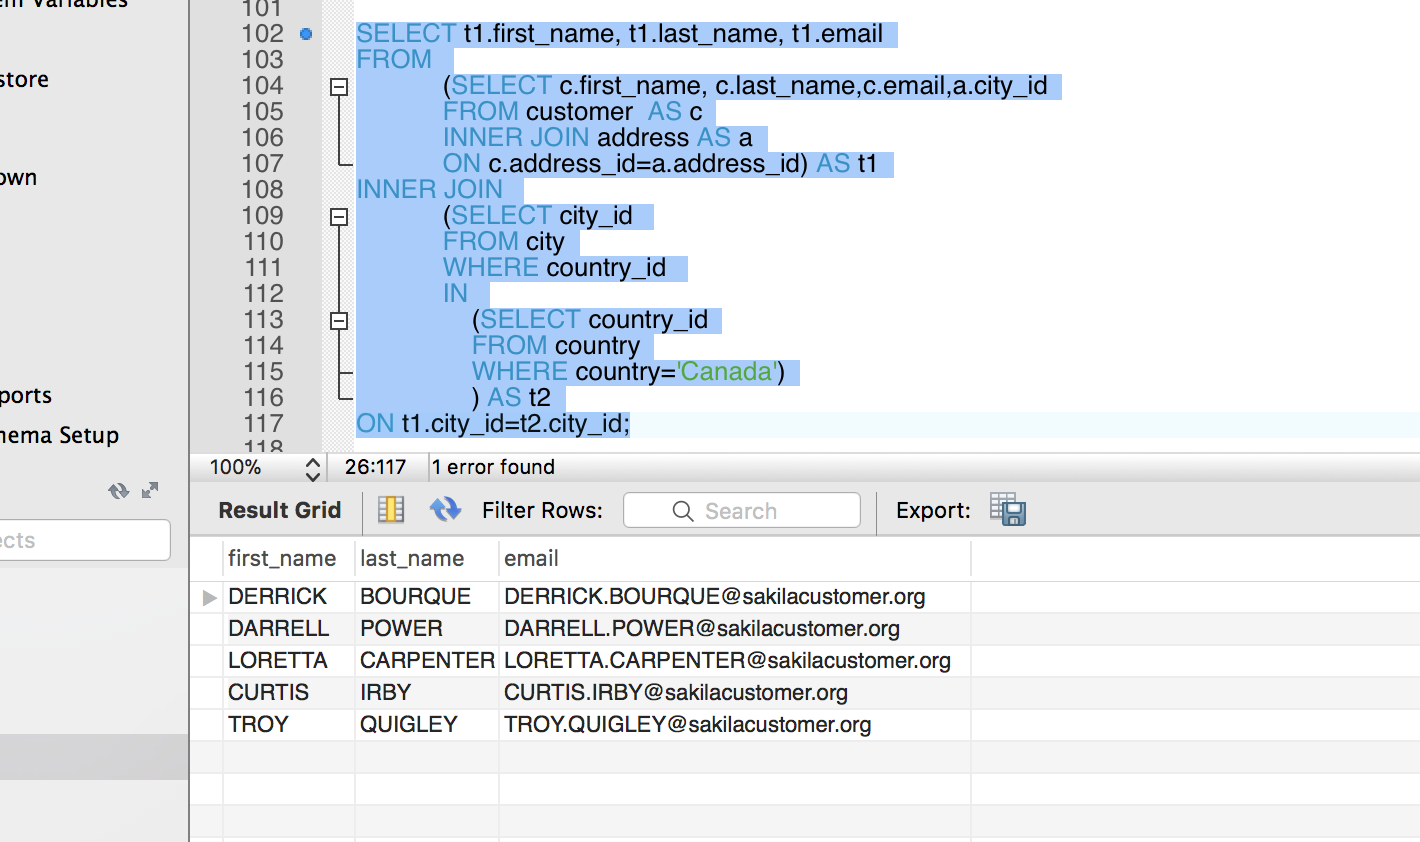
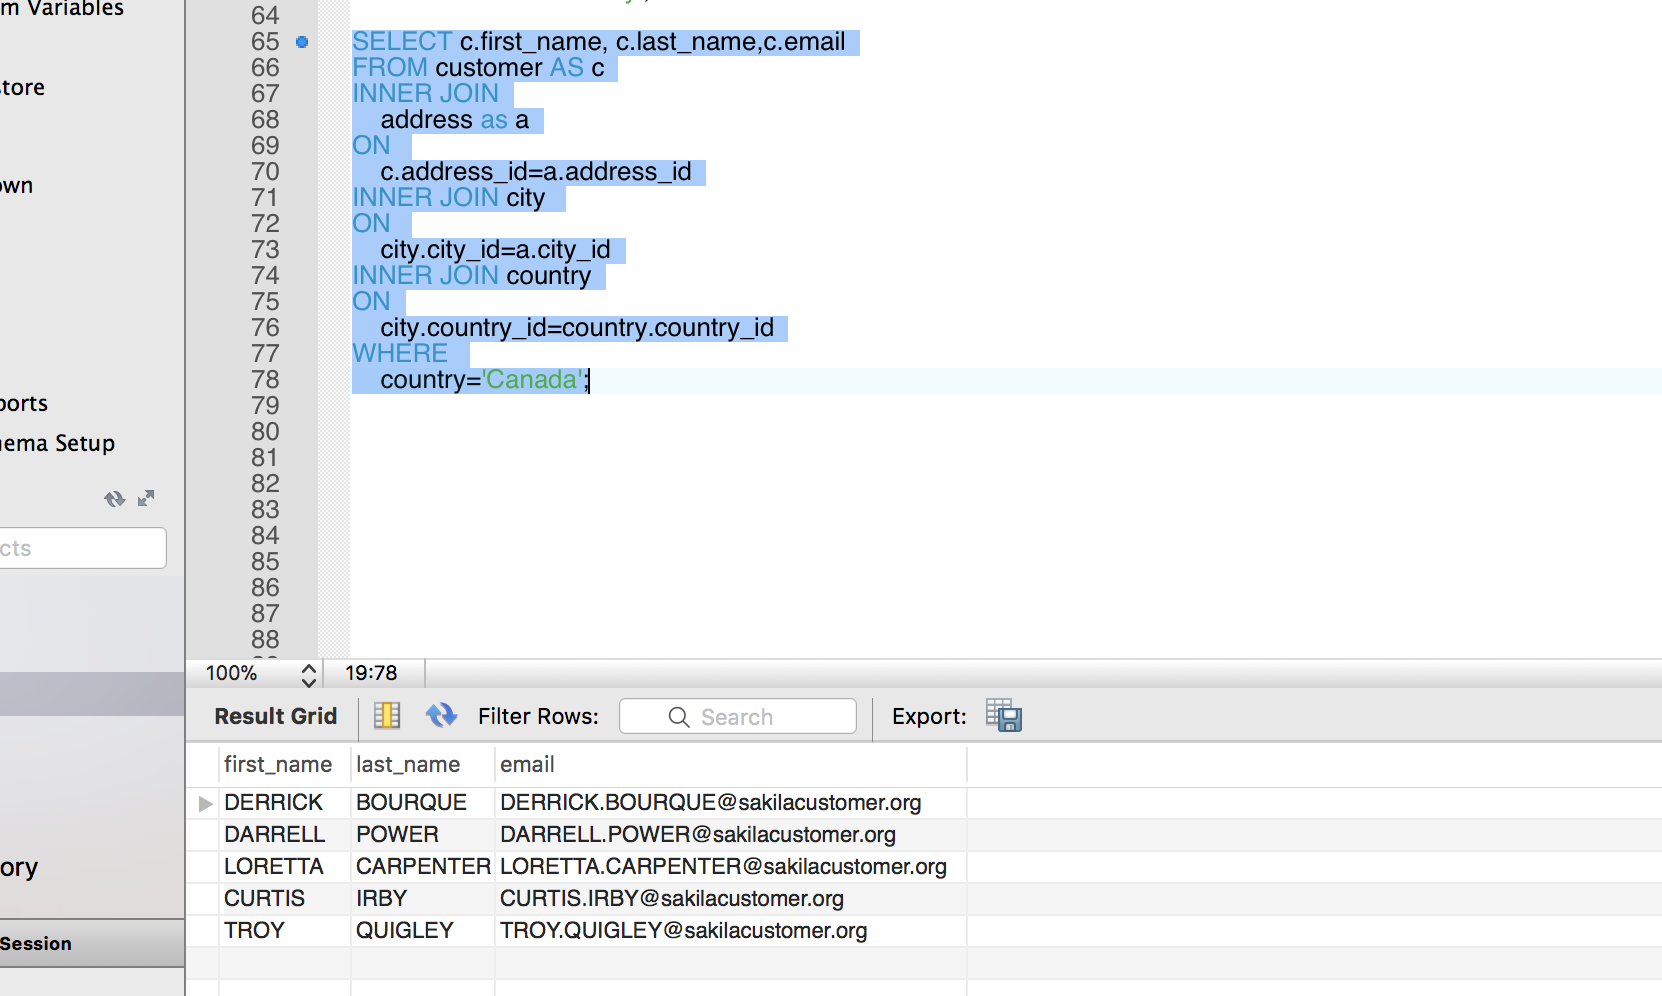
change it a bit

diff --git a/mysql_homework.md b/mysql_homework.md
@@ -4,18 +4,14 @@
 ```sql
 -- switch database to sakila
 USE sakila;
--- actor table is sorted by actor_id so first actor's first_name and last_name 
-SELECT first_name, last_name FROM actor Order BY actor_id ASC LIMIT 1;
--- select the last row 
-SELECT first_name, last_name FROM actor Order BY actor_id DESC LIMIT 1;
+SELECT first_name,last_name FROM actor;
 
-![q1a_first](screenshot/q1a_first.png)
-![q1a_last](screenshot/q1a_last.png)
+![q1a](screenshot/q1a_actor_names.png)
 ```
 
 ## Question 1b. Display the first and last name of each actor in a single column in upper case letters. Name the column `Actor Name`
 ```sql
--- i am goin to concat first_name and last_name with a separator ',' they are already in upper case
+-- i am going to concat first_name and last_name with a separator ',' they are already in upper case
 SELECT CONCAT_WS (',', first_name,last_name) AS Actor_Name
 FROM actor;
 ![q1b](screenshot/q1b_Actor_Name.png)
@@ -147,33 +143,24 @@ ON staff.address_id=address.address_id;
 
 ## Question 6b. Use `JOIN` to display the total amount rung up by each staff member in August of 2005. Use tables `staff` and `payment`.
 ```sql
-SELECT 
-	s.first_name, s.last_name, p.SUM_Aug
-FROM 
-	staff AS s
+SELECT s.first_name,s.last_name,SUM(p.amount) AS Sum_Aug
+FROM staff AS s
 INNER JOIN
-	(SELECT 
-		staff_id, SUM(amount) AS SUM_Aug
-        FROM payment
-        WHERE DATE(payment_date) BETWEEN '2005-08-01' AND '2005-08-31'
-        GROUP BY staff_id) AS p
-ON s.staff_id=p.staff_id;
-![q6b](screenshot/q6b_inner_join_subq.png)
+	payment AS p
+ON s.staff_id=p.staff_id
+WHERE DATE(p.payment_date) BETWEEN '2005-08-01' AND '2005-08-31'
+GROUP BY p.staff_id;
+![q6b](screenshot/q6b_Aug_Payment.png)
 ```
 
 ## Question 6c. List each film and the number of actors who are listed for that film. Use tables `film_actor` and `film`. Use inner join.
 ```sql
-SELECT 
-	f.title, a.actor_counts
-FROM 
-	film AS f
-INNER JOIN 
-	(SELECT 
-		film_id, COUNT(actor_id) AS actor_counts
-		FROM film_actor
-		GROUP BY film_id) AS a
-ON f.film_id=a.film_id;
-![q6c](screenshot/q6c_inner_join_suq_again.png)
+SELECT f.title, COUNT(fa.actor_id) AS Actor_Count
+FROM film AS f
+INNER JOIN film_actor AS fa
+ON f.film_id=fa.film_id
+GROUP BY f.film_id;
+![q6c](screenshot/q6c_actor_counts.png)
 ```
 
 ## Question 6d. How many copies of the film `Hunchback Impossible` exist in the inventory system?
@@ -192,20 +179,17 @@ WHERE
 
 ## Question 6e. Using the tables `payment` and `customer` and the `JOIN` command, list the total paid by each customer. List the customers alphabetically by last name:
 ```sql
-SELECT c.first_name, c.last_name, p.Total_Amount_Paid
+SELECT c.first_name,c.last_name,SUM(p.amount) AS Total_Payment_Customer
 FROM customer AS c
--- USE left join just incase some customer does not pay (unlikely but still better to be safe)
-LEFT JOIN 
-				(SELECT 
-					customer_id, SUM(amount) as Total_Amount_Paid
-					FROM 
-						payment
-					GROUP BY 
-						customer_id) AS p
+INNER JOIN
+	payment AS p
 ON c.customer_id=p.customer_id
-ORDER BY c.last_name ASC;
+GROUP BY 
+	p.customer_id
+ORDER BY 
+	c.last_name ASC;
 
-![q6e](screenshot/q6e_suq_left_join.png)
+![q6e](screenshot/q6e_customer_payment.png)
 ```
 
 ## Question 7a. The music of Queen and Kris Kristofferson have seen an unlikely resurgence. As an unintended consequence, films starting with the letters `K` and `Q` have also soared in popularity. Use subqueries to display the titles of movies starting with the letters `K` and `Q` whose language is English.
@@ -246,22 +230,20 @@ IN
 ```sql
 -- this problem ask to use join but it can also be solved by using where I did both ways
 -- USE join to solve this problem
-SELECT t1.first_name, t1.last_name, t1.email
-FROM 
-			(SELECT c.first_name, c.last_name,c.email,a.city_id
-			FROM customer  AS c
-			INNER JOIN address AS a
-			ON c.address_id=a.address_id) AS t1
-INNER JOIN 
-			(SELECT city_id 
-			FROM city
-			WHERE country_id 
-			IN 
-				(SELECT country_id
-				FROM country
-				WHERE country='Canada')
-				) AS t2
-ON t1.city_id=t2.city_id;
+SELECT c.first_name, c.last_name,c.email
+FROM customer AS c
+INNER JOIN
+	address as a
+ON 
+	c.address_id=a.address_id
+INNER JOIN city 
+ON 
+	city.city_id=a.city_id
+INNER JOIN country
+ON
+	city.country_id=country.country_id
+WHERE 
+	country='Canada';
 
 -- USE SELECT WHERE
 SELECT first_name, last_name,email
@@ -293,14 +275,14 @@ IN
 SELECT f.title
 FROM film AS f
 INNER JOIN
-			(SELECT fc.film_id 
-			 FROM film_category AS fc
-			 INNER JOIN 
-						(SELECT category_id
-						FROM category
-						WHERE name='Family') as c
-			ON fc.category_id=c.category_id) AS t
-ON f.film_id=t.film_id;
+	film_category as fc
+ON 
+	fc.film_id=f.film_id
+INNER JOIN
+	category AS c
+ON
+	fc.category_id=c.category_id
+WHERE c.name='Family';
 
 -- USE SELECT WHERE IN
 SELECT title
@@ -324,115 +306,83 @@ IN
 
 ## Question 7e. Display the most frequently rented movies in descending order..
 ```sql
-SELECT 
-	f.title, SUM(t3.inventory_id_counts) AS times_rented
-FROM 
-	film AS f
-INNER JOIN 
-		(SELECT 
-			t1.film_id,t2.inventory_id_counts,t2.inventory_id
-		FROM 
-			inventory as t1
-		INNER JOIN 
-					(SELECT 
-						inventory_id, COUNT(*) as inventory_id_counts
-					FROM 
-						rental
-					GROUP BY 
-						inventory_id
-                        ) as t2
-		ON t1.inventory_id=t2.inventory_id
-        ) AS t3
-ON 
-	f.film_id=t3.film_id
-GROUP BY 
-	t3.film_id
-ORDER BY 
-	times_rented DESC;
+SELECT f.title, COUNT(r.rental_id) AS Counts
+FROM film AS f
+INNER JOIN inventory AS i
+ON f.film_id=i.film_id
+INNER JOIN rental AS r
+ON r.inventory_id=i.inventory_id
+GROUP BY f.film_id
+ORDER BY Counts DESC;
 ![q7e](screenshot/q7e_most_rented.png)
 ```
 
 ## Question 7f. Write a query to display how much business, in dollars, each store brought in.
 ```sql
 SELECT 
-	a.address, t2.store_id,t2.revenue_store
+	a.address, s.store_id, SUM(p.amount) AS Store_Revenue
 FROM 
-	address AS a
-INNER JOIN
-	(SELECT 
-		s.address_id,s.store_id,SUM(t1.revenue_staff) AS revenue_store
-		FROM store as s
-		INNER JOIN 
-		(SELECT 
-			staff_id,SUM(amount) AS revenue_staff
-		FROM 
-			payment
-		GROUP BY 
-			staff_id
-            ) as t1
-	ON 
-		s.manager_staff_id=t1.staff_id
-	GROUP BY 
-		s.store_id
-        ) as t2
+	address as a
+INNER JOIN 
+	store as s
 ON 
-	a.address_id=t2.address_id;
+	a.address_id=s.address_id
+INNER JOIN
+	payment as p
+ON 
+	s.manager_staff_id=p.staff_id
+GROUP BY
+	s.store_id;
 
 ![q7f](screenshot/q7f_revenue_store.png)
 ```
 
 ## Question 7g. Write a query to display for each store its store ID, city, and country.
 ```sql
-SELECT t2.store_id, t2.city, (SELECT country FROM country WHERE country.country_id=t2.country_id) AS country
+SELECT 
+	s.store_id, c.city, co.country
 FROM 
-	(SELECT c.city,c.country_id, t1.store_id
-	FROM city AS c
-	INNER JOIN
-		(SELECT 
-			store_id, (SELECT 
-								city_id 
-							FROM 
-								address 
-							WHERE 
-								store.address_id = address.address_id
-							) AS city_id
-		FROM store
-		) AS t1
-	ON c.city_id=t1.city_id
-    ) AS t2;
+	store AS s
+INNER JOIN
+	address
+ON 
+	s.address_id=address.address_id
+INNER JOIN
+	city AS c
+ON
+	c.city_id=address.city_id
+INNER JOIN
+	country AS co
+ON
+	co.country_id=c.country_id;
 ![q7g](screenshot/q7g_store_city_country.png)
 ```
 
 ## Question 7h. List the top five genres in gross revenue in descending order. (**Hint**: you may need to use the following tables: category, film_category, inventory, payment, and rental.)
 ```sql
 SELECT 
-	c.name, SUM(t3.sum_rental) AS sum_category
-FROM  
-	film_category AS fc
-INNER JOIN 
+	c.name, SUM(p.amount) AS Sum_Category
+FROM 
 	category AS c
-ON fc.category_id=c.category_id
 INNER JOIN 
-	(SELECT
-		i.film_id, t2.sum_rental 
-	FROM inventory AS i
-	INNER JOIN 
-		(SELECT 
-			r.inventory_id, t1.sum_rental, t1.rental_id
-		FROM rental AS r
-		INNER JOIN 
-			(SELECT 
-				rental_id,SUM(amount) AS sum_rental
-			FROM payment
-			GROUP BY rental_id
-            ) AS t1
-		ON r.rental_id=t1.rental_id
-        ) AS t2 
-	ON i.inventory_id=t2.inventory_id
-	) AS t3
-ON fc.film_id=t3.film_id
-GROUP BY fc.category_id
-ORDER BY sum_category DESC
+	film_category AS fc
+ON 
+	c.category_id=fc.category_id
+INNER JOIN 
+	inventory AS i
+ON 
+	fc.film_id=i.film_id
+INNER JOIN
+	rental AS r
+ON 
+	i.inventory_id=r.inventory_id
+INNER JOIN
+	payment AS p
+ON
+	r.rental_id=p.rental_id
+GROUP BY
+	c.name
+ORDER BY Sum_Category DESC
 LIMIT 5;
 ![q7h](screenshot/q7h_top5_genre.png)
 ```
@@ -441,36 +391,31 @@ LIMIT 5;
 ```sql
 CREATE VIEW 
 	TOP_5_GENRE
-AS SELECT *
-FROM  
-(SELECT c.name, SUM(t3.sum_rental) AS sum_category
-FROM  
-	film_category AS fc
-INNER JOIN 
-	category AS c
-ON fc.category_id=c.category_id
-INNER JOIN 
-	(SELECT
-		i.film_id, t2.sum_rental 
-	FROM inventory AS i
+AS SELECT * FROM  
+	(SELECT 
+		c.name, SUM(p.amount) AS Sum_Category
+	FROM 
+		category AS c
 	INNER JOIN 
-		(SELECT 
-			r.inventory_id, t1.sum_rental, t1.rental_id
-		FROM rental AS r
-		INNER JOIN 
-			(SELECT 
-				rental_id,SUM(amount) AS sum_rental
-			FROM payment
-			GROUP BY rental_id
-            ) AS t1
-		ON r.rental_id=t1.rental_id
-        ) AS t2 
-	ON i.inventory_id=t2.inventory_id
-	) AS t3
-ON fc.film_id=t3.film_id
-GROUP BY fc.category_id
-ORDER BY sum_category DESC
-LIMIT 5) AS t4;
+		film_category AS fc
+	ON 
+		c.category_id=fc.category_id
+	INNER JOIN 
+		inventory AS i
+	ON 
+		fc.film_id=i.film_id
+	INNER JOIN
+		rental AS r
+	ON 
+		i.inventory_id=r.inventory_id
+	INNER JOIN
+		payment AS p
+	ON
+		r.rental_id=p.rental_id
+	GROUP BY
+		c.name
+	ORDER BY Sum_Category DESC
+	LIMIT 5) as t1;  
 
 ![q8a](screenshot/q8a_create_view.png)
 ```
